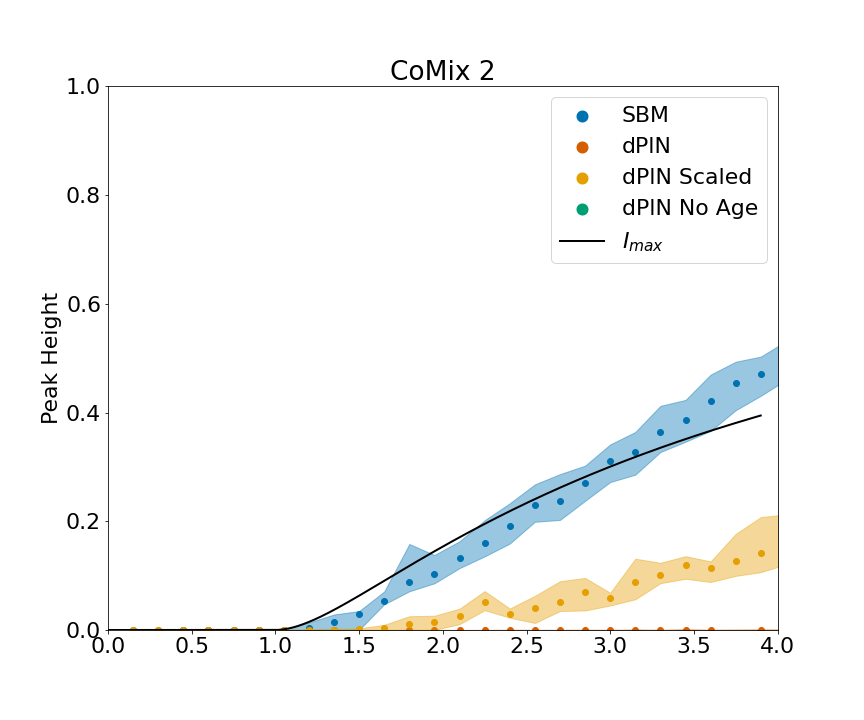
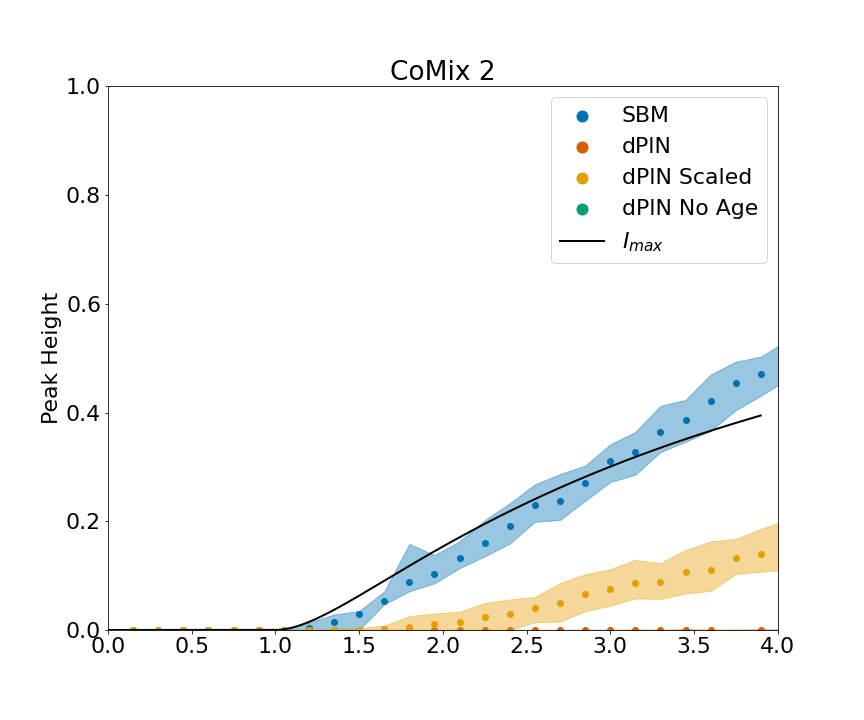
growth rate sims 10

Changed region(s): [[0.4688, 0.7333, 0.875, 0.8861], [0.875, 0.7639, 0.9062, 0.7944], [0.875, 0.7028, 0.9062, 0.7333]]

diff --git a/_growth_rate.py b/_growth_rate.py
@@ -27,7 +27,10 @@ taus = [[np.arange(0.21,0.31,0.01)],
 taus = [[np.arange(0.01,0.31,0.01)],
         [np.arange(0.01,0.31,0.01)],
         [np.arange(0.01,0.31,0.01)]]
-
+# 10
+taus = [[np.arange(0.005,0.41,0.005)],
+        [np.arange(0.01,0.41,0.01)],
+        [np.arange(0.01,0.41,0.01)]]
 
 for i, data in enumerate(datas):
     for j, model in enumerate(models):
@@ -38,6 +41,6 @@ for i, data in enumerate(datas):
         else:
             params = np.genfromtxt(f'input_data/parameters/params_{data}_{model}.csv', delimiter=',')
         result = nd_p.sellke_sims_growth_rate(partitions=partitions,contact_matrix=contact_matrix,network_params=params,n=n,dist_type=model,num_networks=1,iterations=iters, taus=taus[i][j],prop_infec=5/n, scaling=scales[j])
-        with open(f'../output_data/simulations/big/sellke/growth_rate/9_{data}_{model}.json','w') as f:
+        with open(f'../output_data/simulations/big/sellke/growth_rate/10_{data}_{model}.json','w') as f:
             json.dump(result, f)
 print('done')
